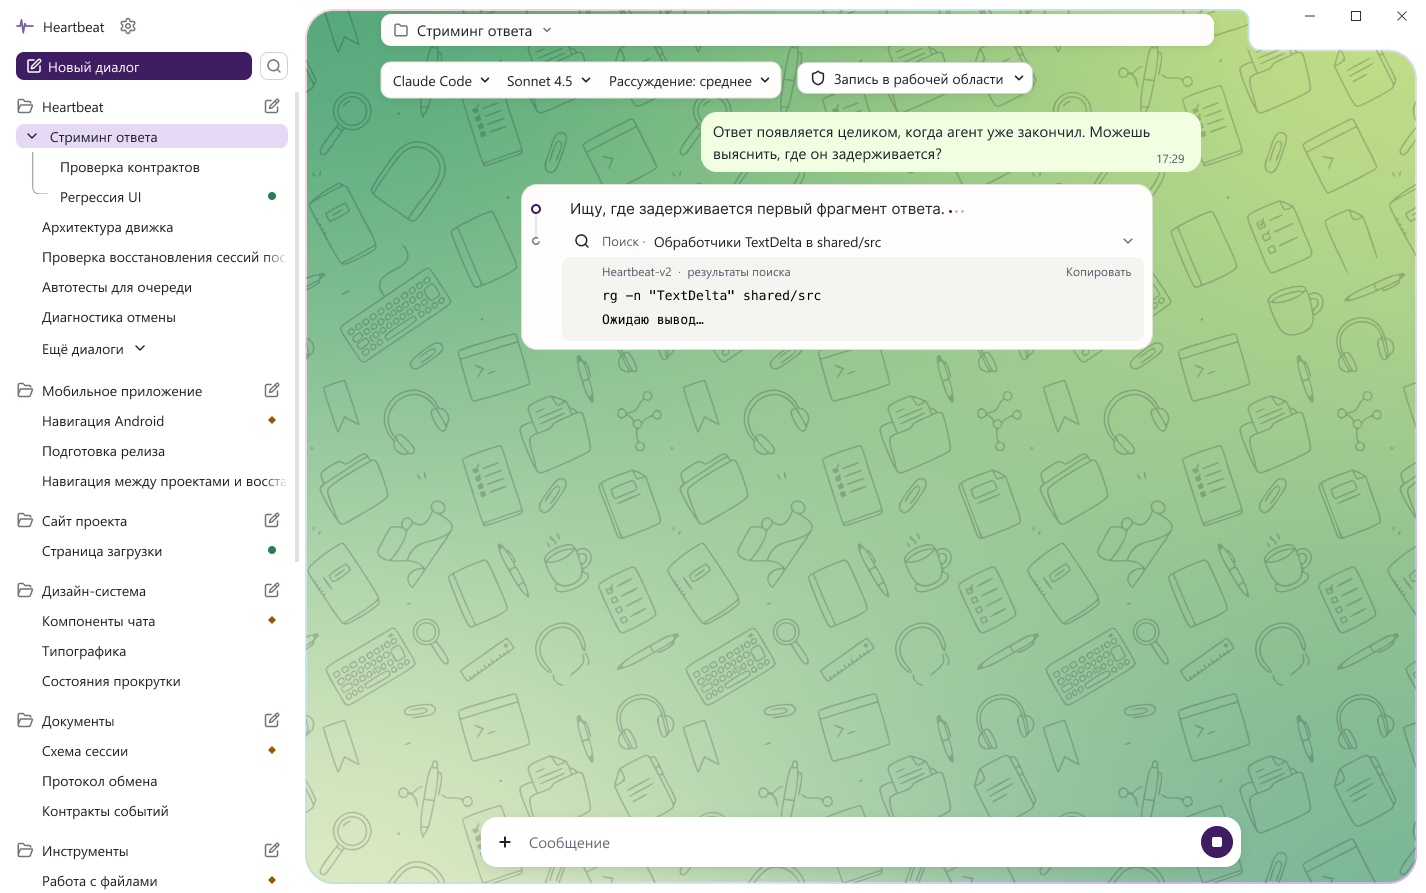
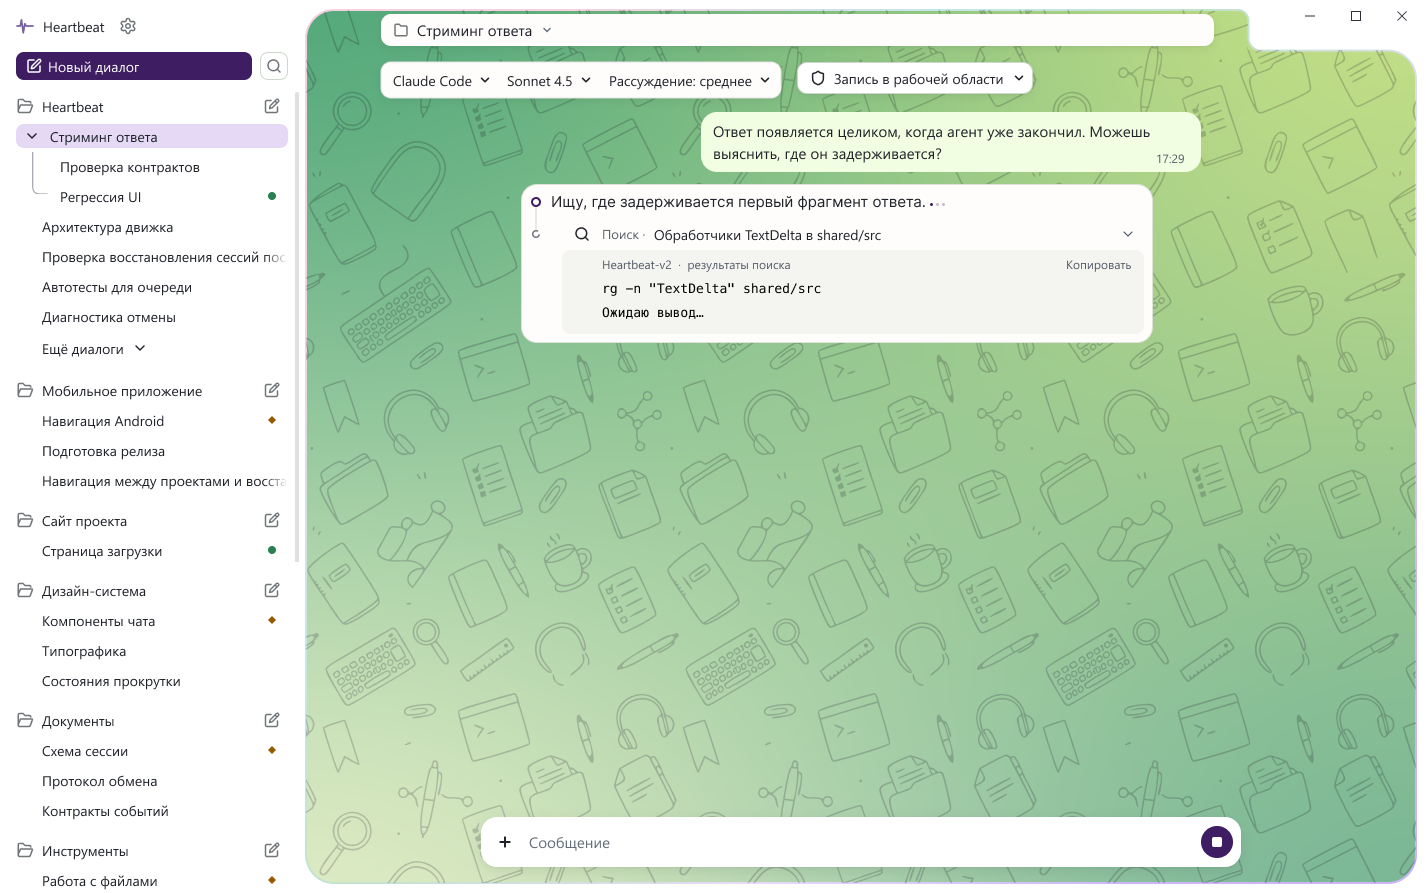
Balance active goal marker spacing and set an eight-point text inset

Changed region(s): [[0.3703, 0.2116, 0.8022, 0.3931]]

diff --git a/specs/desktop-aurora-agent-workspace.md b/specs/desktop-aurora-agent-workspace.md
@@ -34,6 +34,8 @@
 
 ## Текущий этап
 
+В строке с первым вызовом от верхней границы облачка до текстового блока цели — 8 dp. По горизонтали до кольца, само кольцо и промежуток от кольца до подписи занимают по 10 dp. Центр кольца совпадает с серединой первой строки текста. [Первый вызов в Figma](https://www.figma.com/design/ivLmgulIBIkMzOw8sgvKxj/Aurora-DS?node-id=478-106157)
+
 На месте подписи ожидания появляется публичная цель агента, например «Проверяю остановку потока». Кольцо пульсирует во время обмена с LLM, три точки анимируются сразу после подписи. При уменьшенном движении кольцо и точки статичны. Диктор сообщает о начале ожидания один раз. Текущий этап всегда открыт. Его заголовок не имеет шеврона, а строка «Ход работы» появляется после окончания ответа.
 
 Если агент не передал название, клиент один раз выбирает локальную подпись по типу событий. Для чтения подходит «Просмотр файлов», для команд — «Работа в терминале», для смешанного набора — «Работа по запросу». Если есть выбор, предыдущая подпись исключается. Выбор хранится по ID этапа. Поздняя цель агента заменяет подпись на месте. [Активные состояния](https://www.figma.com/design/ivLmgulIBIkMzOw8sgvKxj/Aurora-DS?node-id=467-163726) · [Наборы названий](https://www.figma.com/design/ivLmgulIBIkMzOw8sgvKxj/Aurora-DS?node-id=477-179898)
